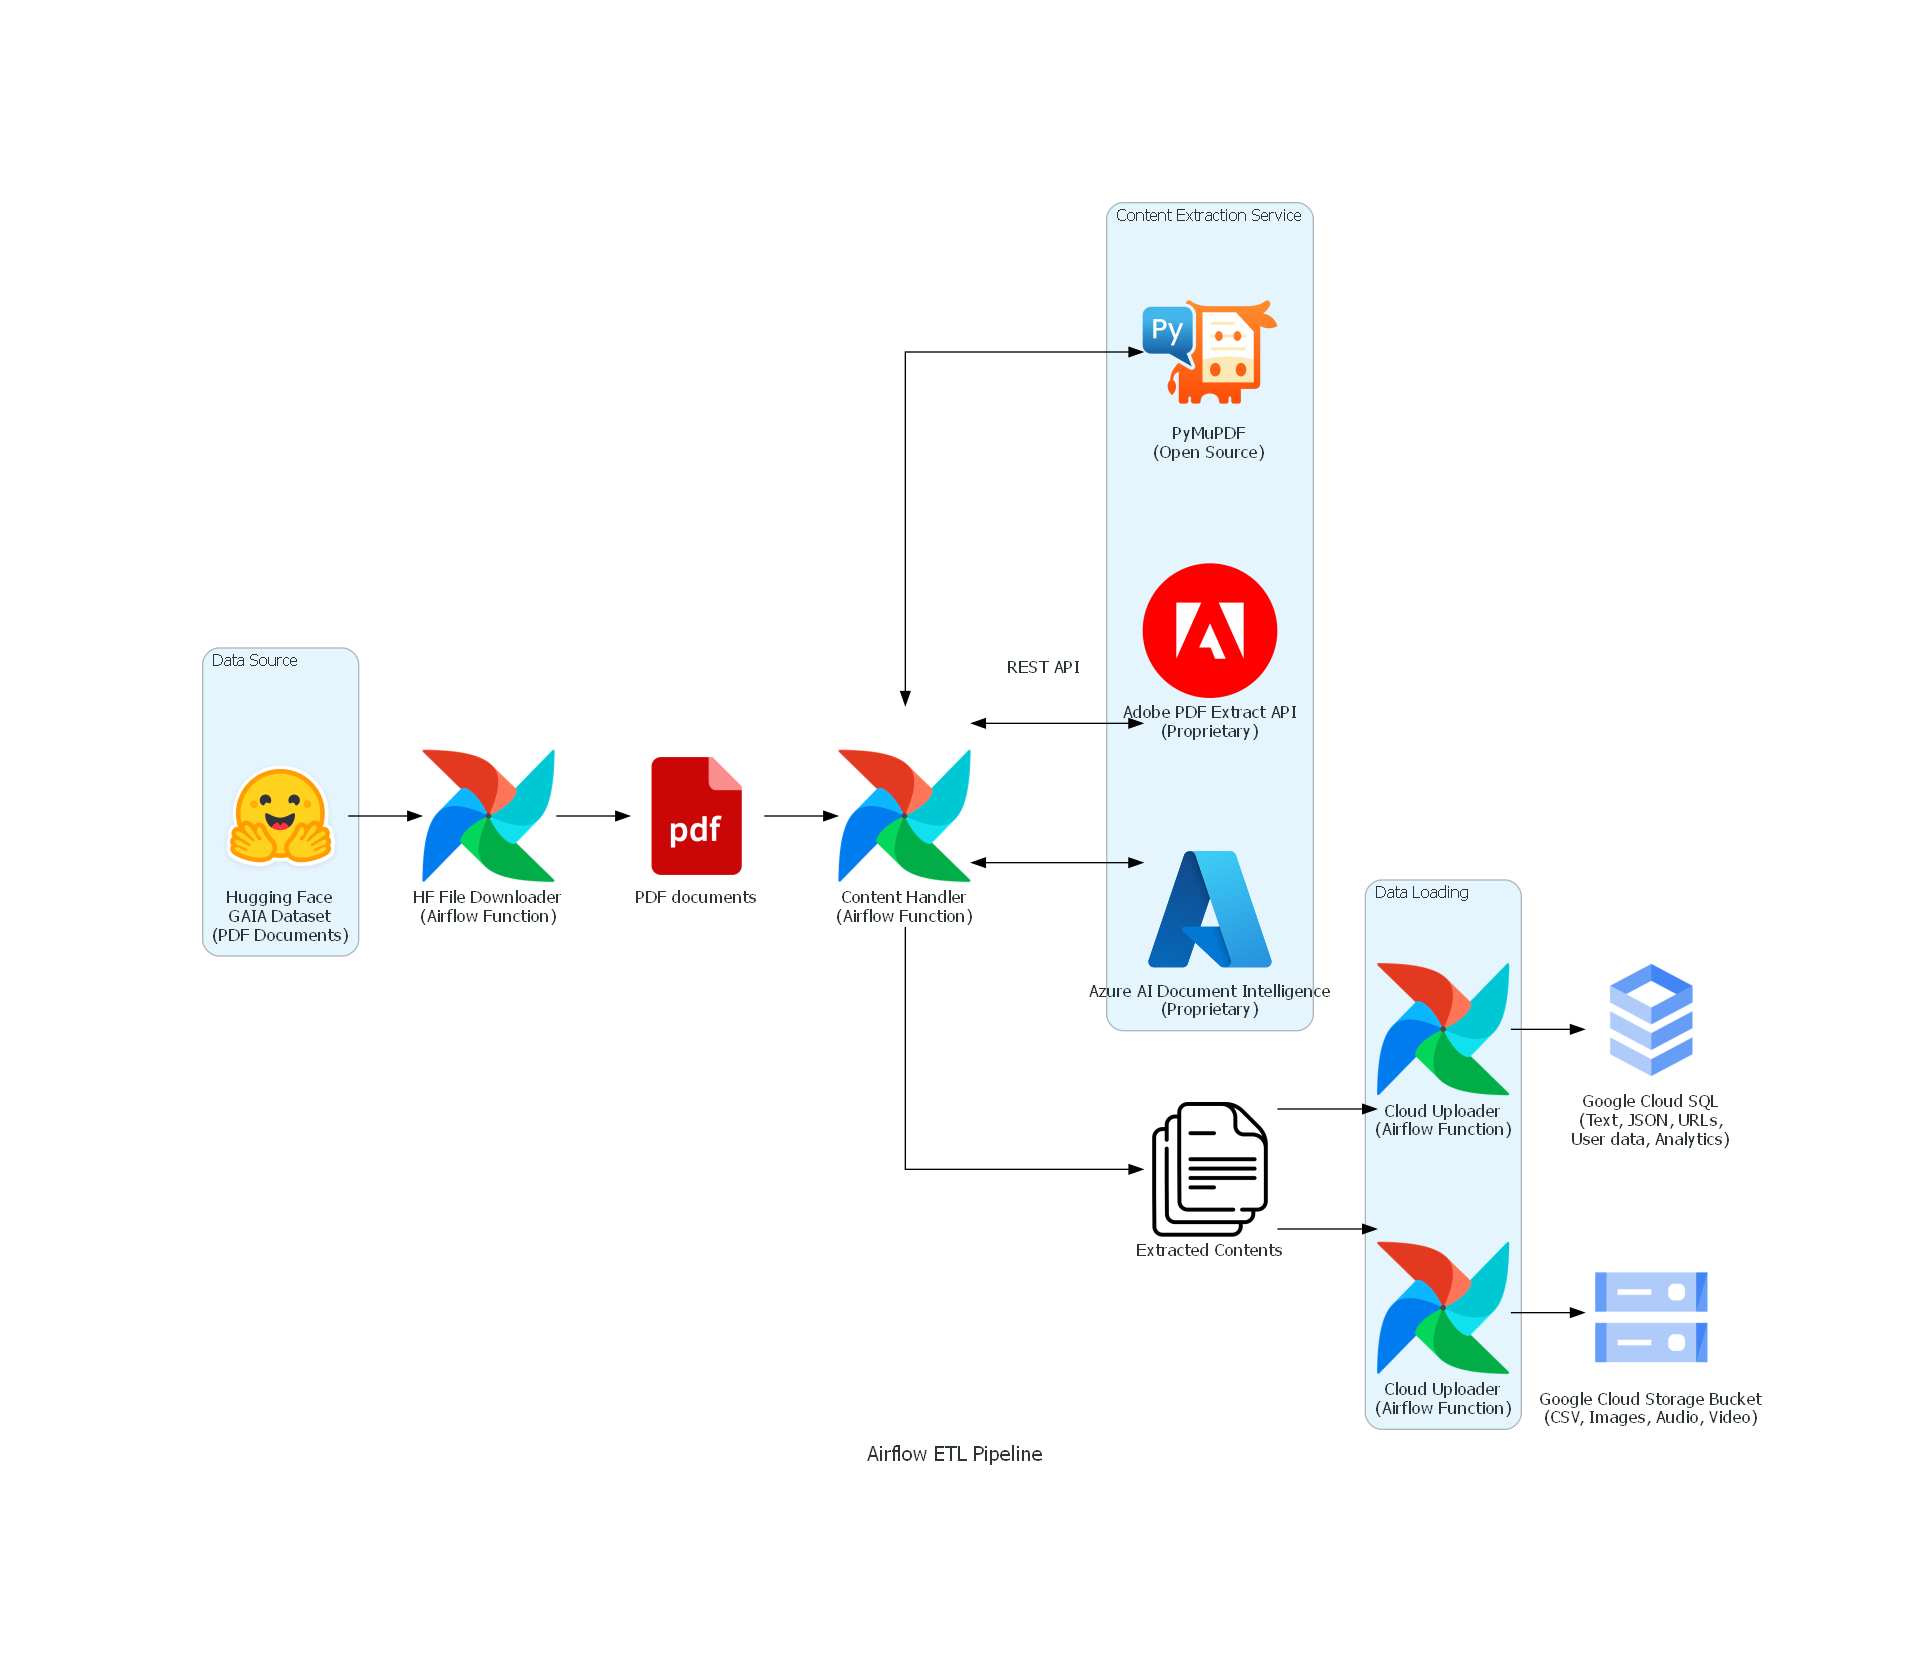
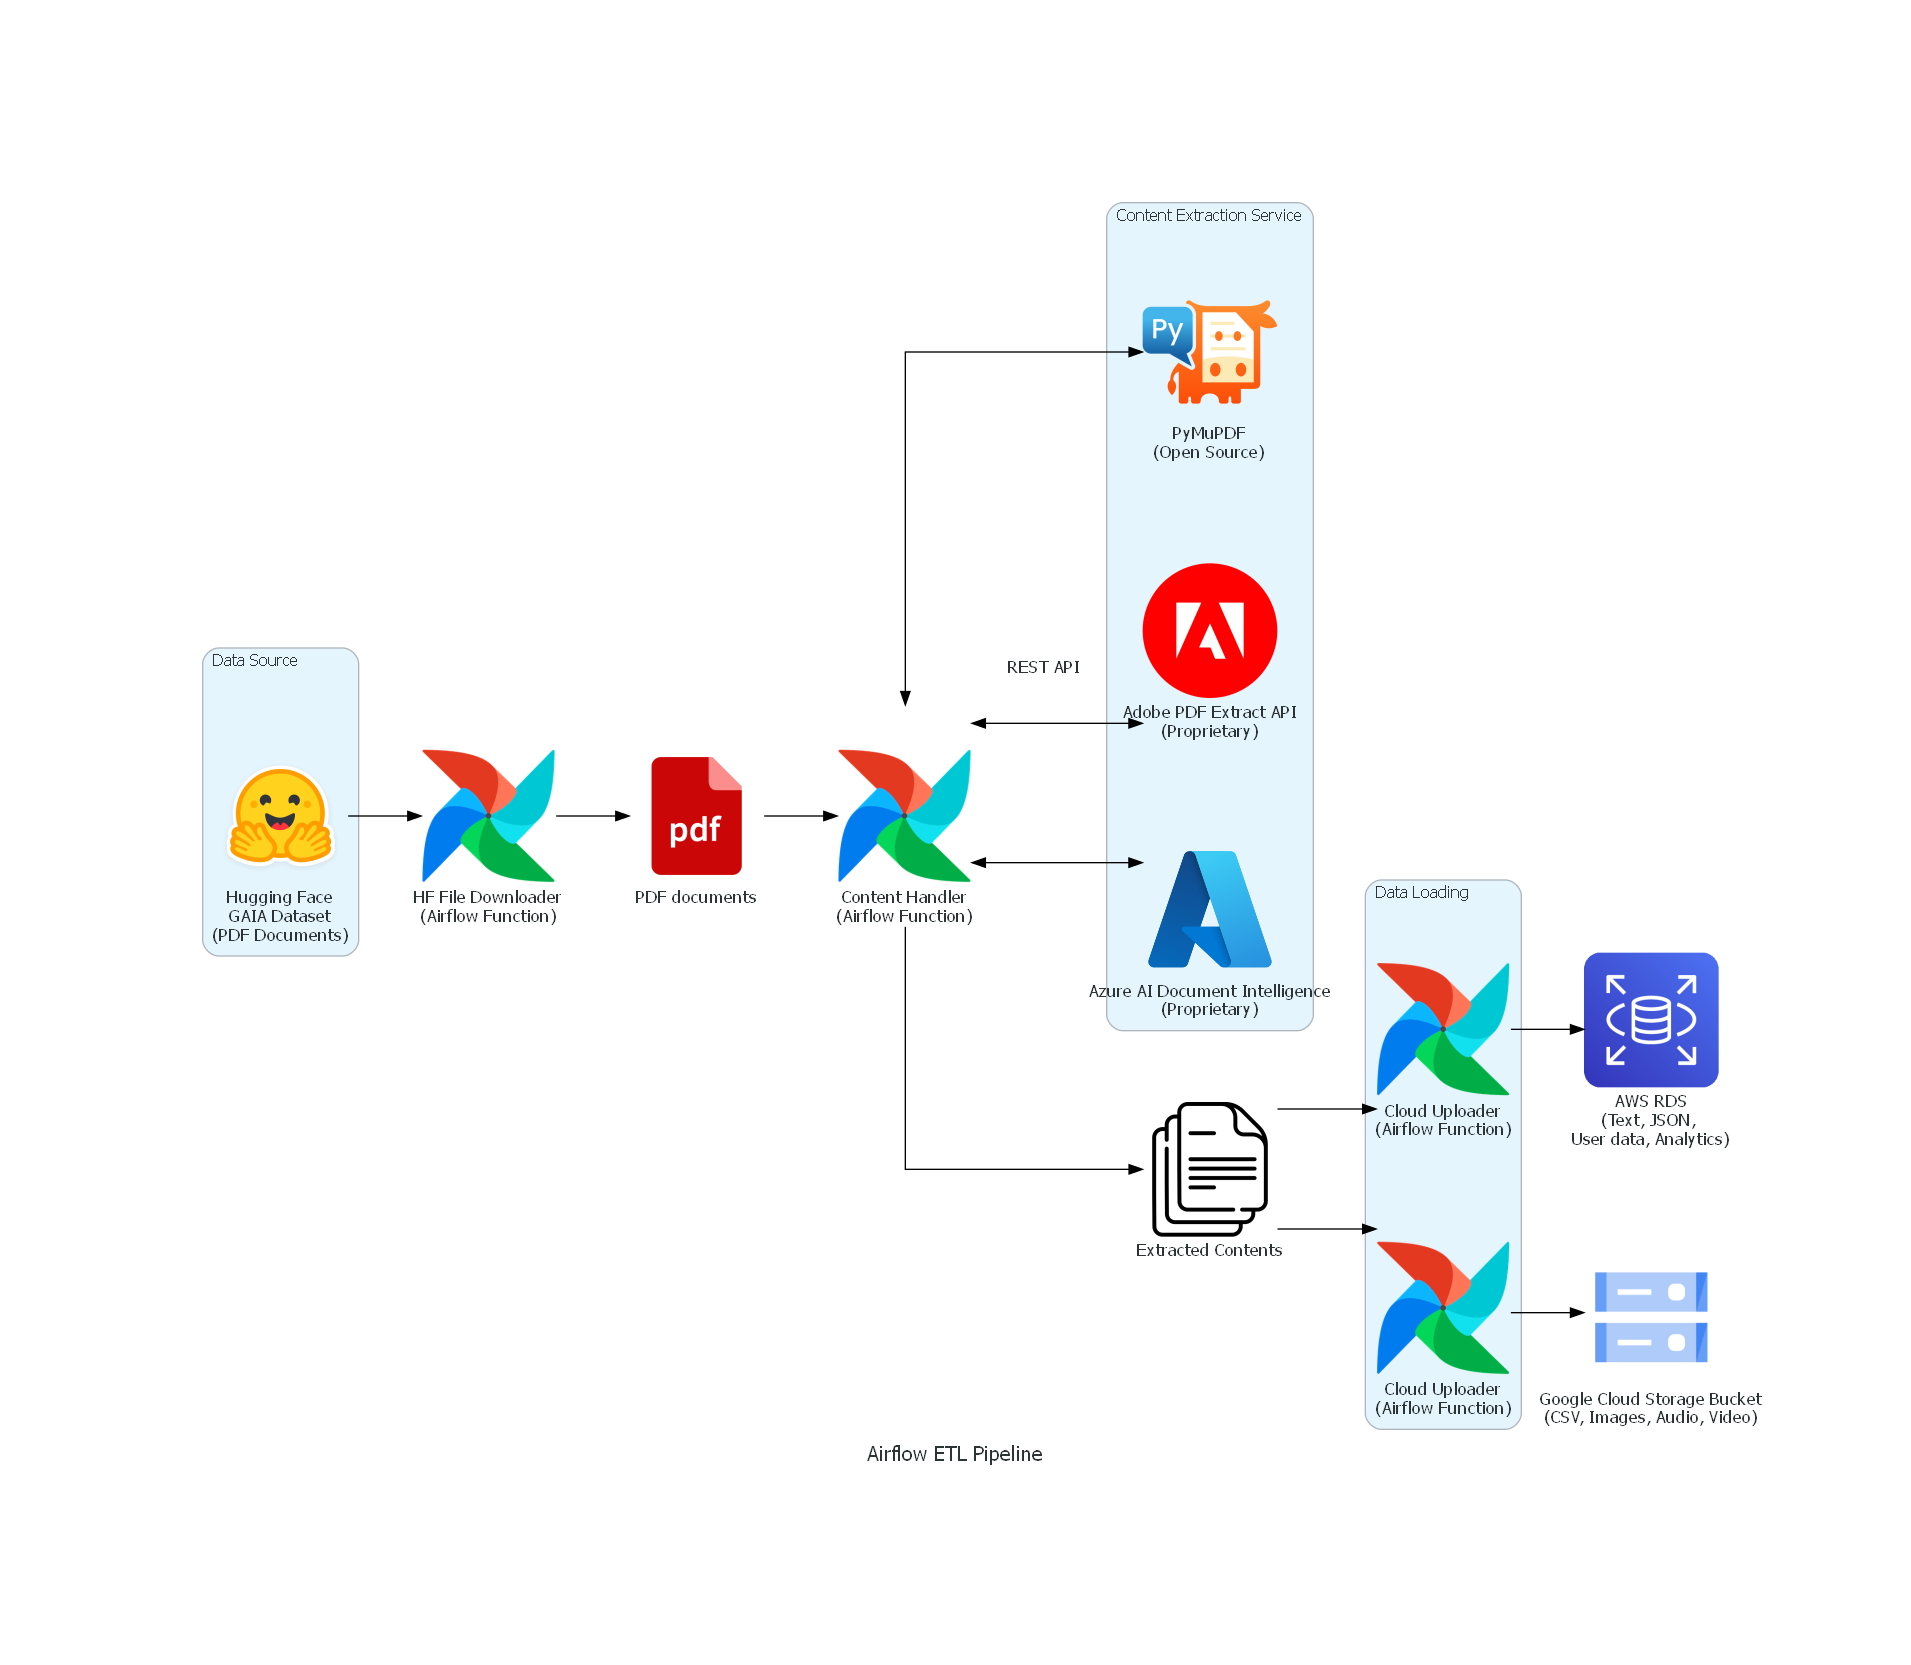
Updating architecture diagram

Changed region(s): [[0.8027, 0.5622, 0.9262, 0.6871]]

diff --git a/diagram/airflow_architecture.py b/diagram/airflow_architecture.py
@@ -1,13 +1,13 @@
 from diagrams import Diagram, Cluster, Edge
 from diagrams.onprem.workflow import Airflow
 from diagrams.gcp.storage import Storage
-from diagrams.gcp.database import SQL
+from diagrams.aws.database import RDS
 from diagrams.custom import Custom
 
 with Diagram("Airflow ETL Pipeline", show=False):
     
     with Cluster("Data Source"):
-        hugging_face_data = Custom("Hugging Face\nGAIA Dataset\n(PDF Documents)", "./images/HuggingFace_logo.png")
+        hugging_face_data = Custom("Hugging Face\nGAIA Dataset\n", "./images/HuggingFace_logo.png")
 
     with Cluster("Content Extraction Service", direction="TB"):
         pymupdf = Custom("PyMuPDF\n(Open Source)", "./images/PyMuPDF.png")
@@ -21,9 +21,12 @@ with Diagram("Airflow ETL Pipeline", show=False):
     # Define Nodes
     hugging_face_downloader = Airflow("HF File Downloader\n(Airflow Function)")
     pdf_docs = Custom("PDF documents", "./images/PDF_documents.png")
+    fileLoader = Airflow("File Loader\n(Airflow Function)")
+    fileParser = Airflow("File Parser\n(Airflow Function)")
     content_handler = Airflow("Content Handler\n(Airflow Function)")
+    setupTables = Airflow()
     extracted_contents = Custom("Extracted Contents", "./images/JSON_CSV_PNG.png")
-    gcp_sql = SQL("Google Cloud SQL\n(Text, JSON, URLs,\nUser data, Analytics)")
+    gcp_sql = RDS("AWS RDS\n(Text, JSON, \nUser data, Analytics)")
     gcp_storage = Storage("Google Cloud Storage Bucket\n(CSV, Images, Audio, Video)")
 
     # Define connections

diff --git a/diagram/core_app_architecture.py b/diagram/core_app_architecture.py
@@ -1,9 +1,8 @@
 from diagrams import Diagram, Edge, Cluster
 from diagrams.gcp.storage import Storage
-from diagrams.gcp.database import SQL
+from diagrams.aws.database import RDS
 from diagrams.custom import Custom
 from diagrams.programming.framework import FastAPI
-from diagrams.onprem.container import Docker
 from diagrams.onprem.client import Users, Client
 
 with Diagram("Core Application Service", show=False, direction="LR"):
@@ -15,17 +14,15 @@ with Diagram("Core Application Service", show=False, direction="LR"):
         streamlit = Custom("Streamlit application\n(Frontend)", "./images/Streamlit.png")
     
     # Define nodes
-    sql = SQL("Google Cloud SQL\n(Text, JSON, URLs,\nUser data, Analytics)")
+    sql = RDS("AWS RDS\n(Text, JSON,\nUser data, Analytics)")
     storage = Storage("Google Cloud Storage Bucket\n(CSV, Image, Audio, Video)")
-    external_api = Client("External API\n(Access Tokens)")
     users = Users("End Users")
     openai = Custom("OpenAI GPT-4o / OpenAI Whisper", "./images/OpenAI.png")
     
     # Define connections
     sql << Edge(color="black", style="solid") >> fastapi
-    storage >> fastapi
+    storage >> Edge(color="black", style="solid") >> fastapi
     
-    external_api << Edge(color="black", style="solid") >> fastapi
     fastapi << Edge(color="black", style="solid", label="REST APIs") >> streamlit
     fastapi << Edge(color="black", style="solid") >> openai
 

diff --git a/airflow/airflow_pipeline.py b/airflow/airflow_pipeline.py
@@ -1715,7 +1715,7 @@ with DAG(
         python_callable=pdfDownloader_driver_func
     )
 
-    abode_extractor_task = PythonOperator(
+    adode_extractor_task = PythonOperator(
         task_id='adobeExtractor_driver_func',
         python_callable=adobeExtractor_driver_func
     )
@@ -1728,4 +1728,4 @@ with DAG(
 
     
     # Task Dependencies
-    download_pdf_task >> pdf_downloader_adobe_task >> fileLoader_task >> fileParser_task >> azure_pdfFileExtractor >> abode_extractor_task >> extract_pymupdf_task >> extract_metadata_task >> setup_tables_task >> load_database_task >> cloud_uploader_pymupdf_task >> cloud_uploader_azure_task >> cloud_uploader_adobe_task
+    download_pdf_task >> pdf_downloader_adobe_task >> fileLoader_task >> fileParser_task >> azure_pdfFileExtractor >> adode_extractor_task >> extract_pymupdf_task >> extract_metadata_task >> setup_tables_task >> load_database_task >> cloud_uploader_pymupdf_task >> cloud_uploader_azure_task >> cloud_uploader_adobe_task
